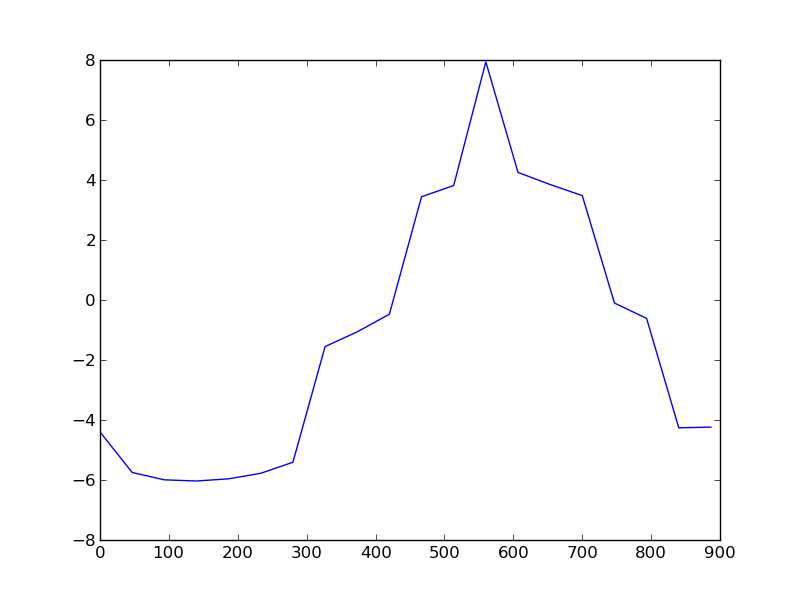
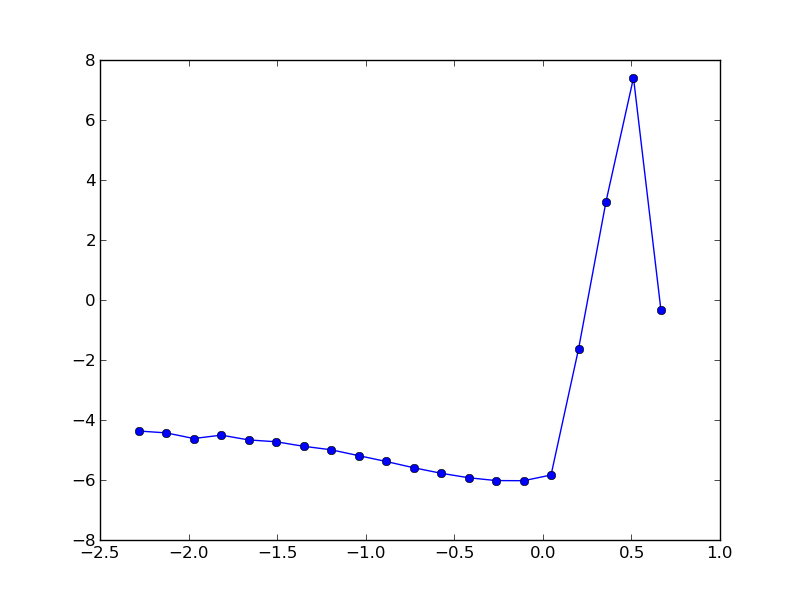
correcting a littel

diff --git a/src/tidel.py b/src/tidel.py
@@ -14,7 +14,7 @@ class Tidels():
         data=data.reshape((1024,1024,1024),order='F')
         return data
 N=1024
-L=1.2
+L=1.2*10**3   #Mpc
 H=L/1024.
 kf=2*np.pi/L
 data=Tidels.LoadData(filename='/home/mtx/data/tidels/0.000den00.bin')
@@ -25,22 +25,21 @@ x=np.arange(1024)
 for i in np.arange(1,1024/2+1):
     x[1024-i]=x[i]
 window_k=np.sinc(np.pi/N*x[:,None,None])*np.sinc(np.pi/N*x[None,:,None])*np.sinc(np.pi/N*x[None,None,:])
-Pk=(np.abs(delta_k/window_k)**2).reshape(-1)[1:]
+Pk=(np.abs(delta_k/window_k)**2)
 del window_k
 #########################################################################
-k=np.log10(2*np.pi/L*((x[:,None,None]**2+x[None,:,None]**2+x[None,None,:]**2)**(1./2.)).reshape(-1)[1:])
+k=((x[:,None,None]**2+x[None,:,None]**2+x[None,None,:]**2)**(1./2.))
 kmax=k.max()
-kmin=k.min()
-x=np.linspace(kmin,kmax,20)
+kmin=1
+x=np.linspace(np.log10(kmin),np.log10(kmax),20,endpoint=True)
 dx=x[1]-x[0]
-x=x+dx/2.
 P=[]
 for i in x:
-    P.append(Pk[((i-dx/2.)<=k)*(k<(i+dx/2.))].sum()/float(len(Pk[((i-dx/2.)<=k)*(k<(i+dx/2.))])))
-P=1.2**3./(1024.**6.)*np.array(P)
-np.savetxt('PS_data',np.c_[x,np.log10(P)])
-#plt.plot(x,np.log10(P),'-o')
-#plt.savefig('./ps.png')
+    P.append(Pk[(10**(i-dx/2.)<=k)*(k<10**(i+dx/2.))].sum()/float(len(Pk[(10**(i-dx/2.)<=k)*(k<10**(i+dx/2.))])))
+P=L**3./(1024.**6.)*np.array(P)
+x=10**x*2*np.pi/L
+######### save with no log###############
+np.savetxt('PS_data',np.c_[x,P])
 
 
 

diff --git a/src/plot.py b/src/plot.py
@@ -1,0 +1,9 @@
+#!/usr/bin/env python
+# coding=utf-8
+import matplotlib.pyplot as plt
+import numpy as np
+#data=np.loadtxt('PS_data')
+data=np.loadtxt('data_nolog')
+plt.plot(np.log10(data[:,0]),np.log10(data[:,1]),'-o')
+plt.show()
+#plt.savefig('ps.png')
